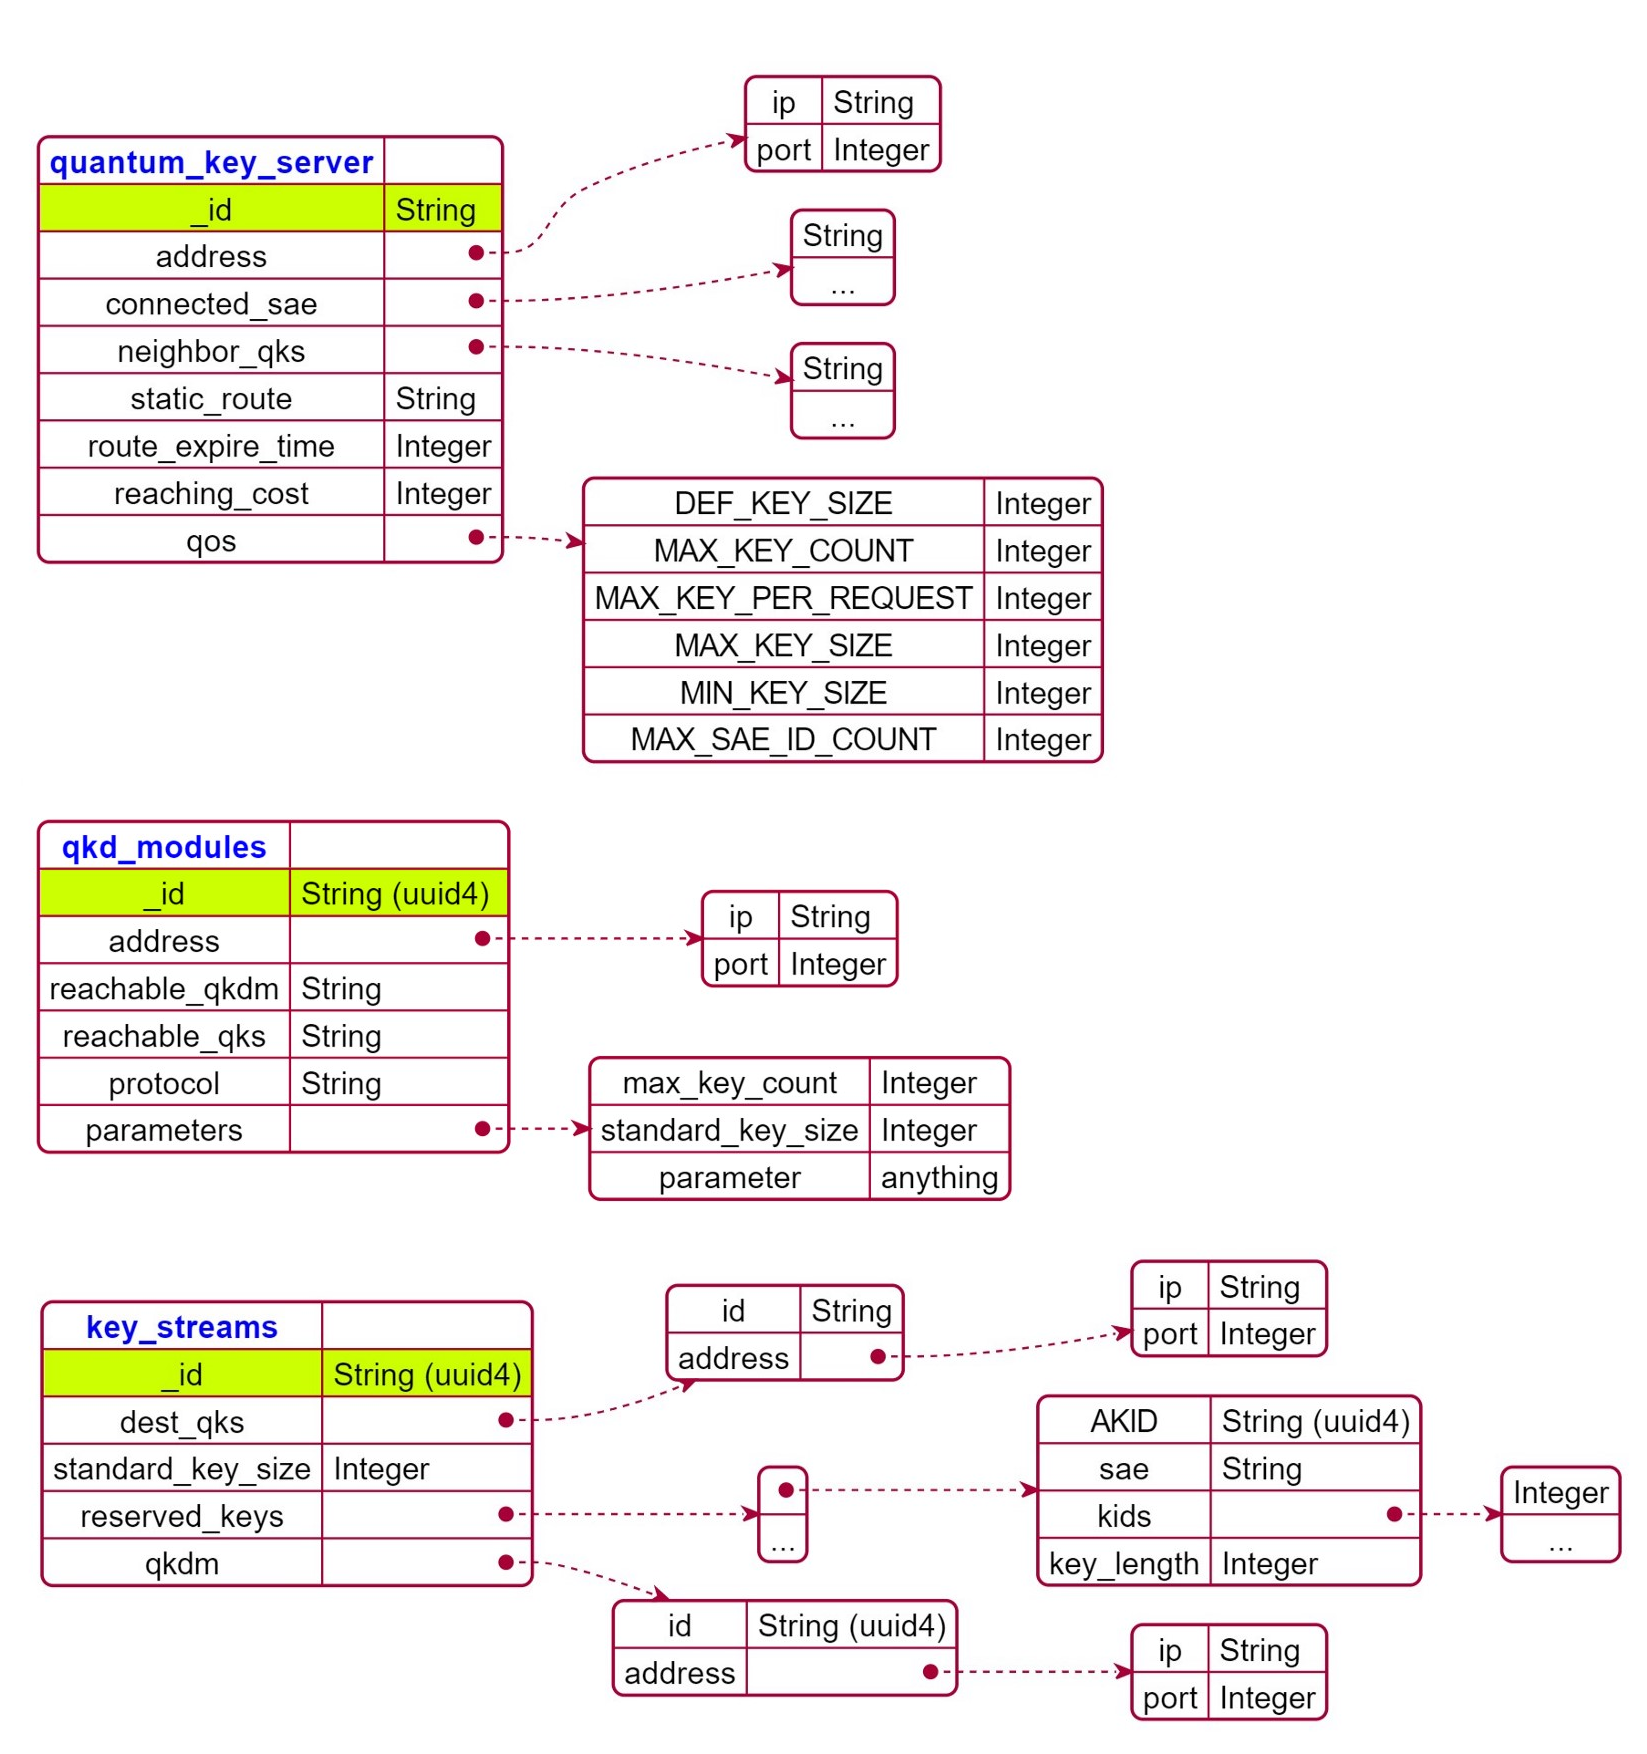
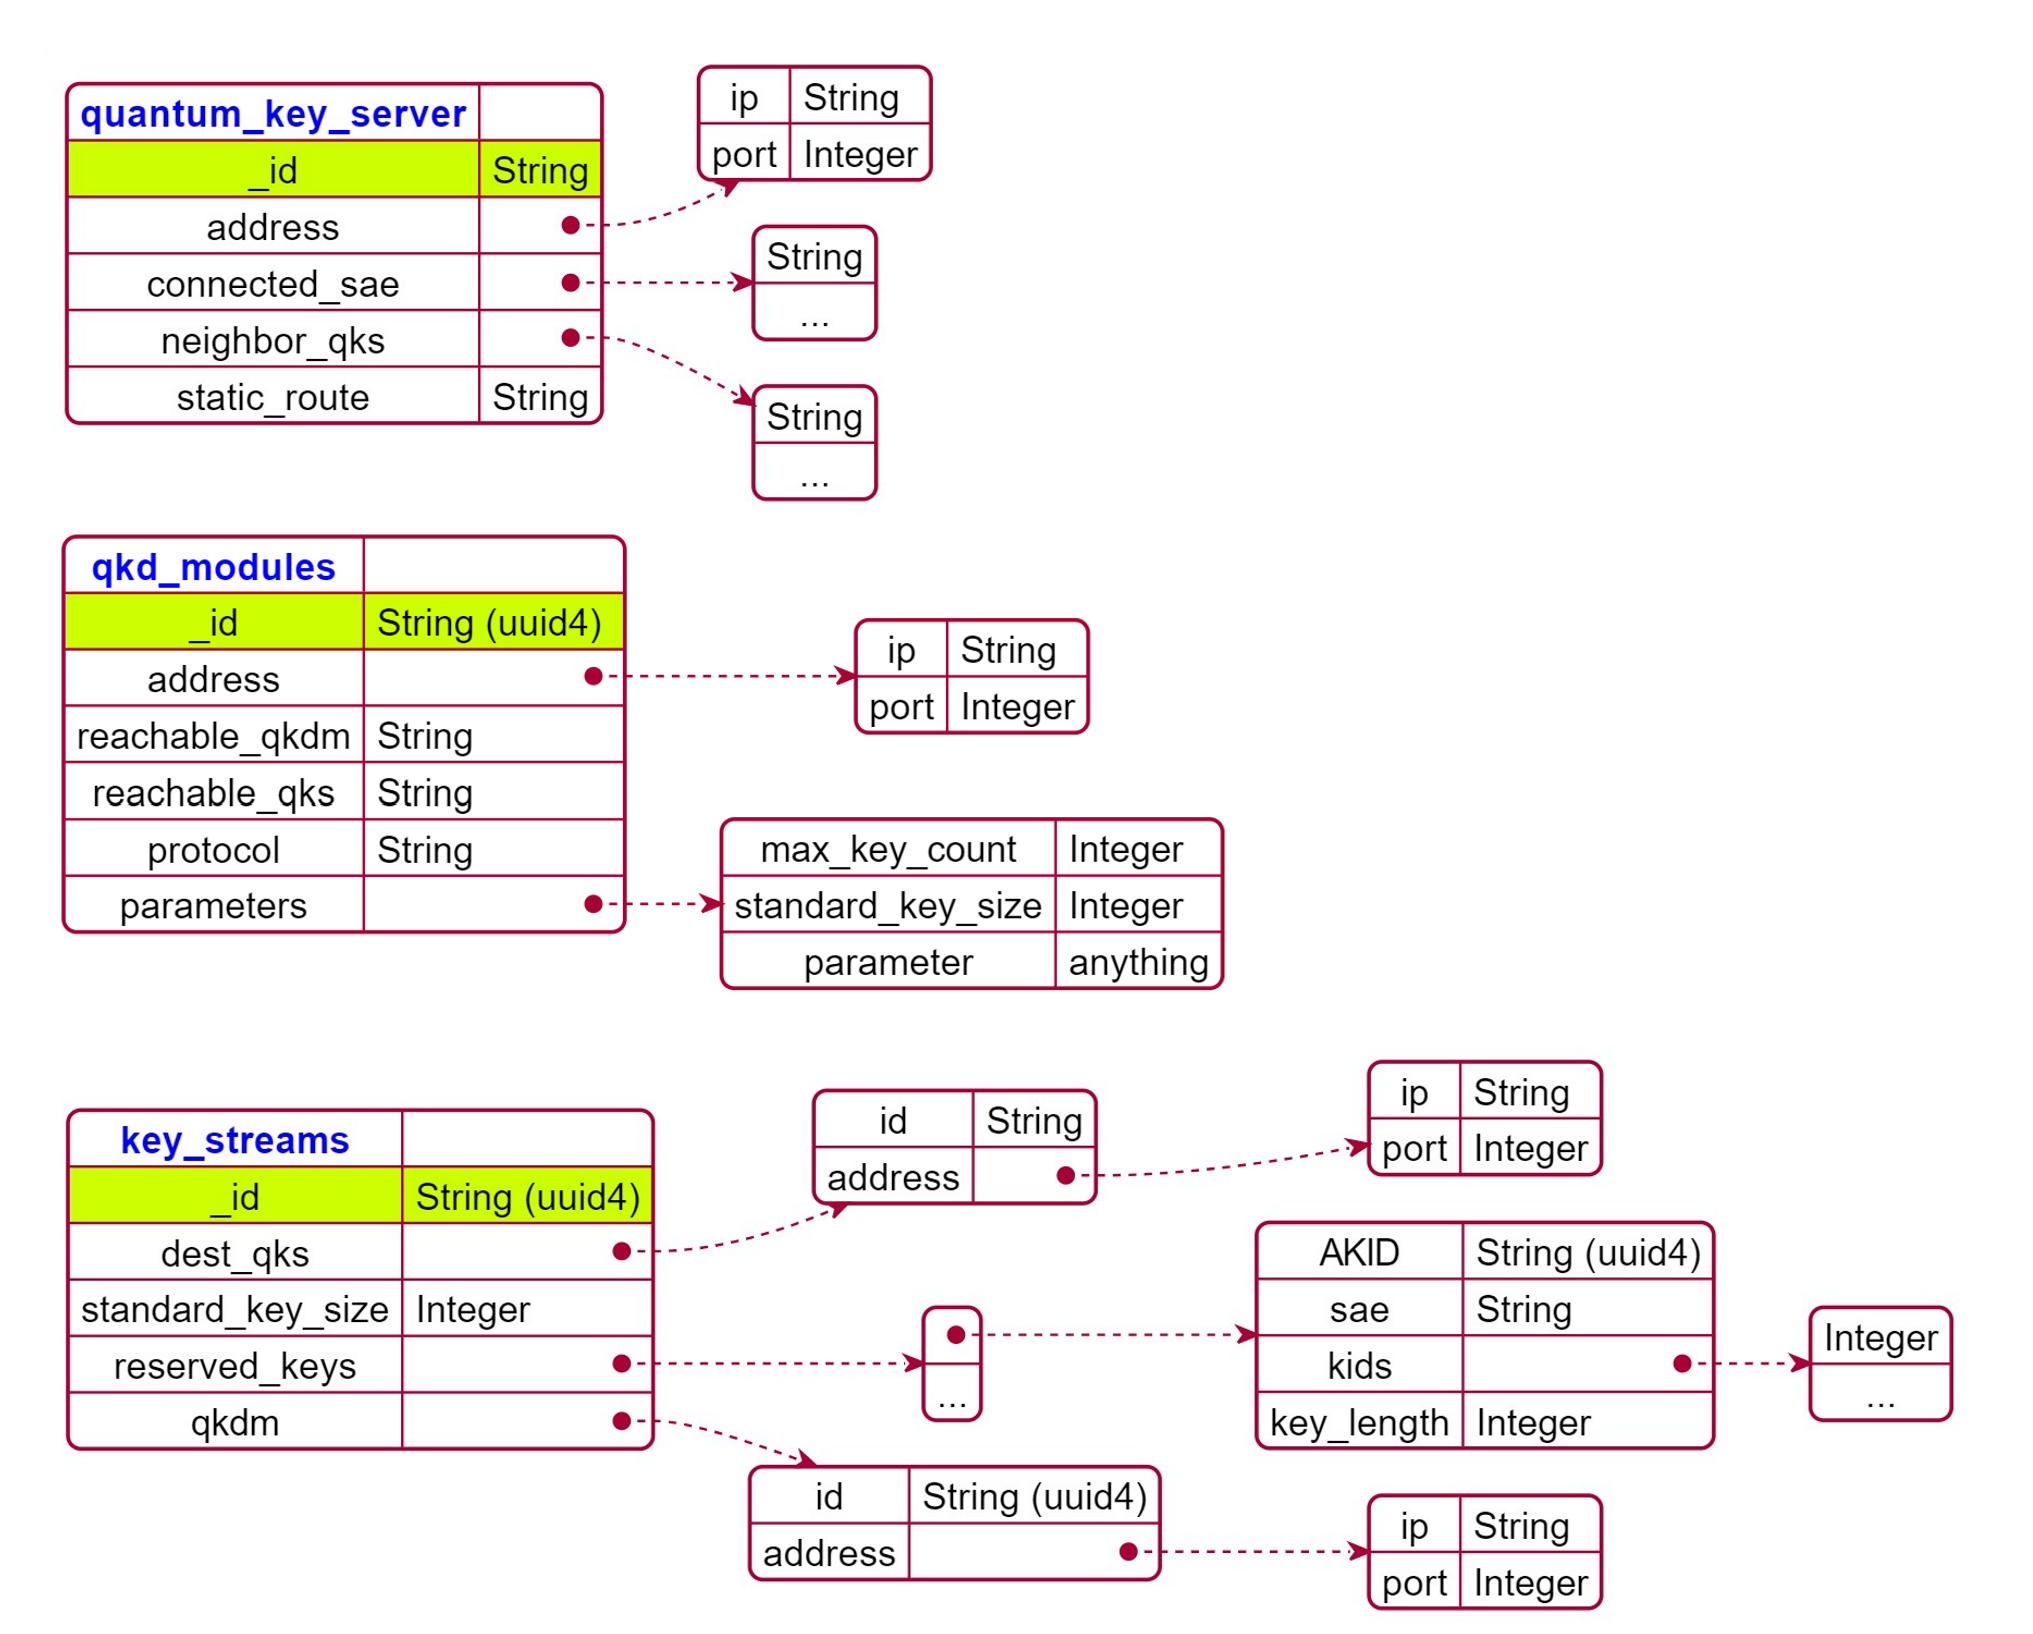
updated pictures

diff --git a/docs/DB_model.md b/docs/DB_model.md
@@ -28,17 +28,7 @@
 		"String",
 		"..."
 	],
-	"static_route" : "String",
-	"route_expire_time" : "Integer",
-	"reaching_cost" : "Integer", 
-    "qos" : {
-    	"DEF_KEY_SIZE" : "Integer" , 
-		"MAX_KEY_COUNT" : "Integer" ,
-		"MAX_KEY_PER_REQUEST" : "Integer", 
-		"MAX_KEY_SIZE" : "Integer" , 
-		"MIN_KEY_SIZE" : "Integer" , 
-		"MAX_SAE_ID_COUNT" : "Integer" 
-    }
+	"static_route" : "String"
 }
 @endjson
 
